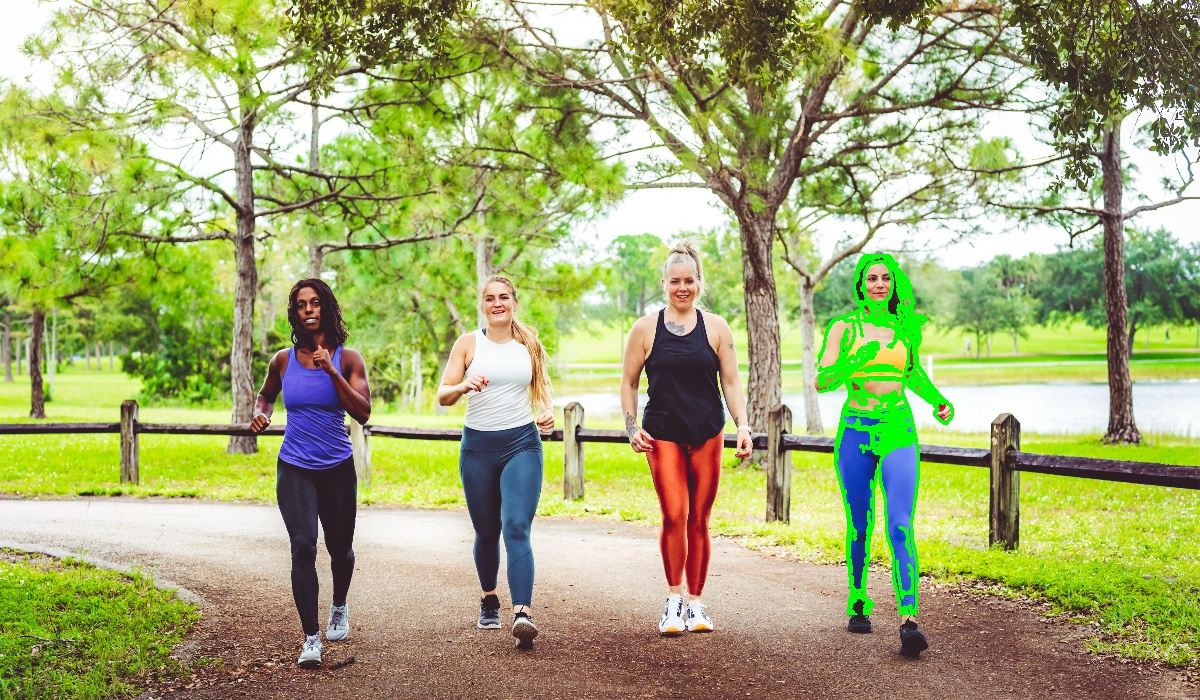
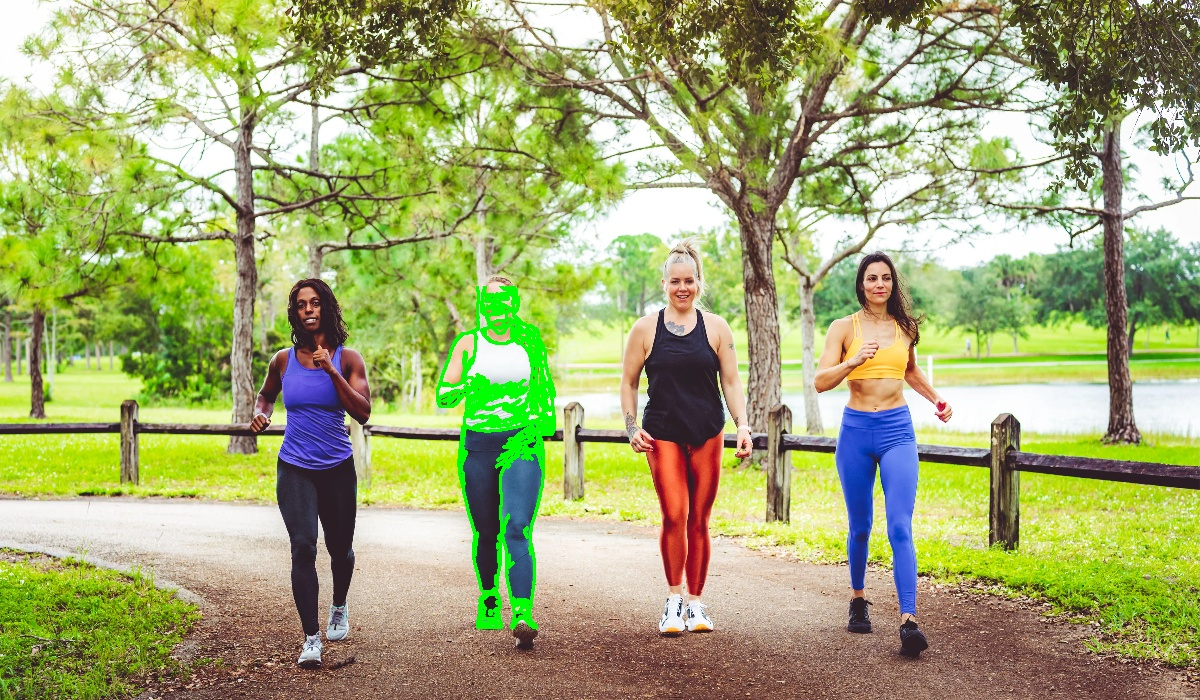
presented the code to sir

Changed region(s): [[0.6783, 0.36, 0.8017, 0.9], [0.3392, 0.39, 0.4625, 0.9]]

diff --git a/Outline Maker/main.py b/Outline Maker/main.py
@@ -1,5 +1,5 @@
 import cv2
-from rembg import remove
+from rembg import remove #removes bg
 
 def main (image_path, output_name):
     image = cv2.imread(image_path)
@@ -12,19 +12,29 @@ def main (image_path, output_name):
     while True:
         img = image.copy()
         r = cv2.selectROI("select the area (Press 'Enter' to continue and 'c' to stop)", image)
+        print(r)
 
         # Crop image
         cropped_image = img[int(r[1]):int(r[1]+r[3]),
                             int(r[0]):int(r[0]+r[2])]
+        cv2.imshow( "Input Image",cropped_image)
+        cv2.waitKey(0)
+        
         cropped_wo_bg = remove( cropped_image)
+        cv2.imshow( "Input Image",cropped_wo_bg)
+        cv2.waitKey(0)
+                    
         gray= cv2.cvtColor(cropped_wo_bg, cv2.COLOR_BGR2GRAY)
+        
+        cv2.imshow( "Input Image",gray)
+        cv2.waitKey(0)
 
         edges= cv2.Canny(gray,30,200)
 
         contours, hierarchy= cv2.findContours(edges, cv2.RETR_EXTERNAL, cv2.CHAIN_APPROX_NONE)
 
         cv2.drawContours(img[int(r[1]):int(r[1]+r[3]),
-            int(r[0]):int(r[0]+r[2])], contours, -1, (0,255,0),2, hierarchy= hierarchy)
+            int(r[0]):int(r[0]+r[2])], contours, -1, (255,0,0),2, hierarchy= hierarchy)
         
         cv2.imwrite("Results/" + output_name, img)
         cv2.imshow('Output Image',img)
